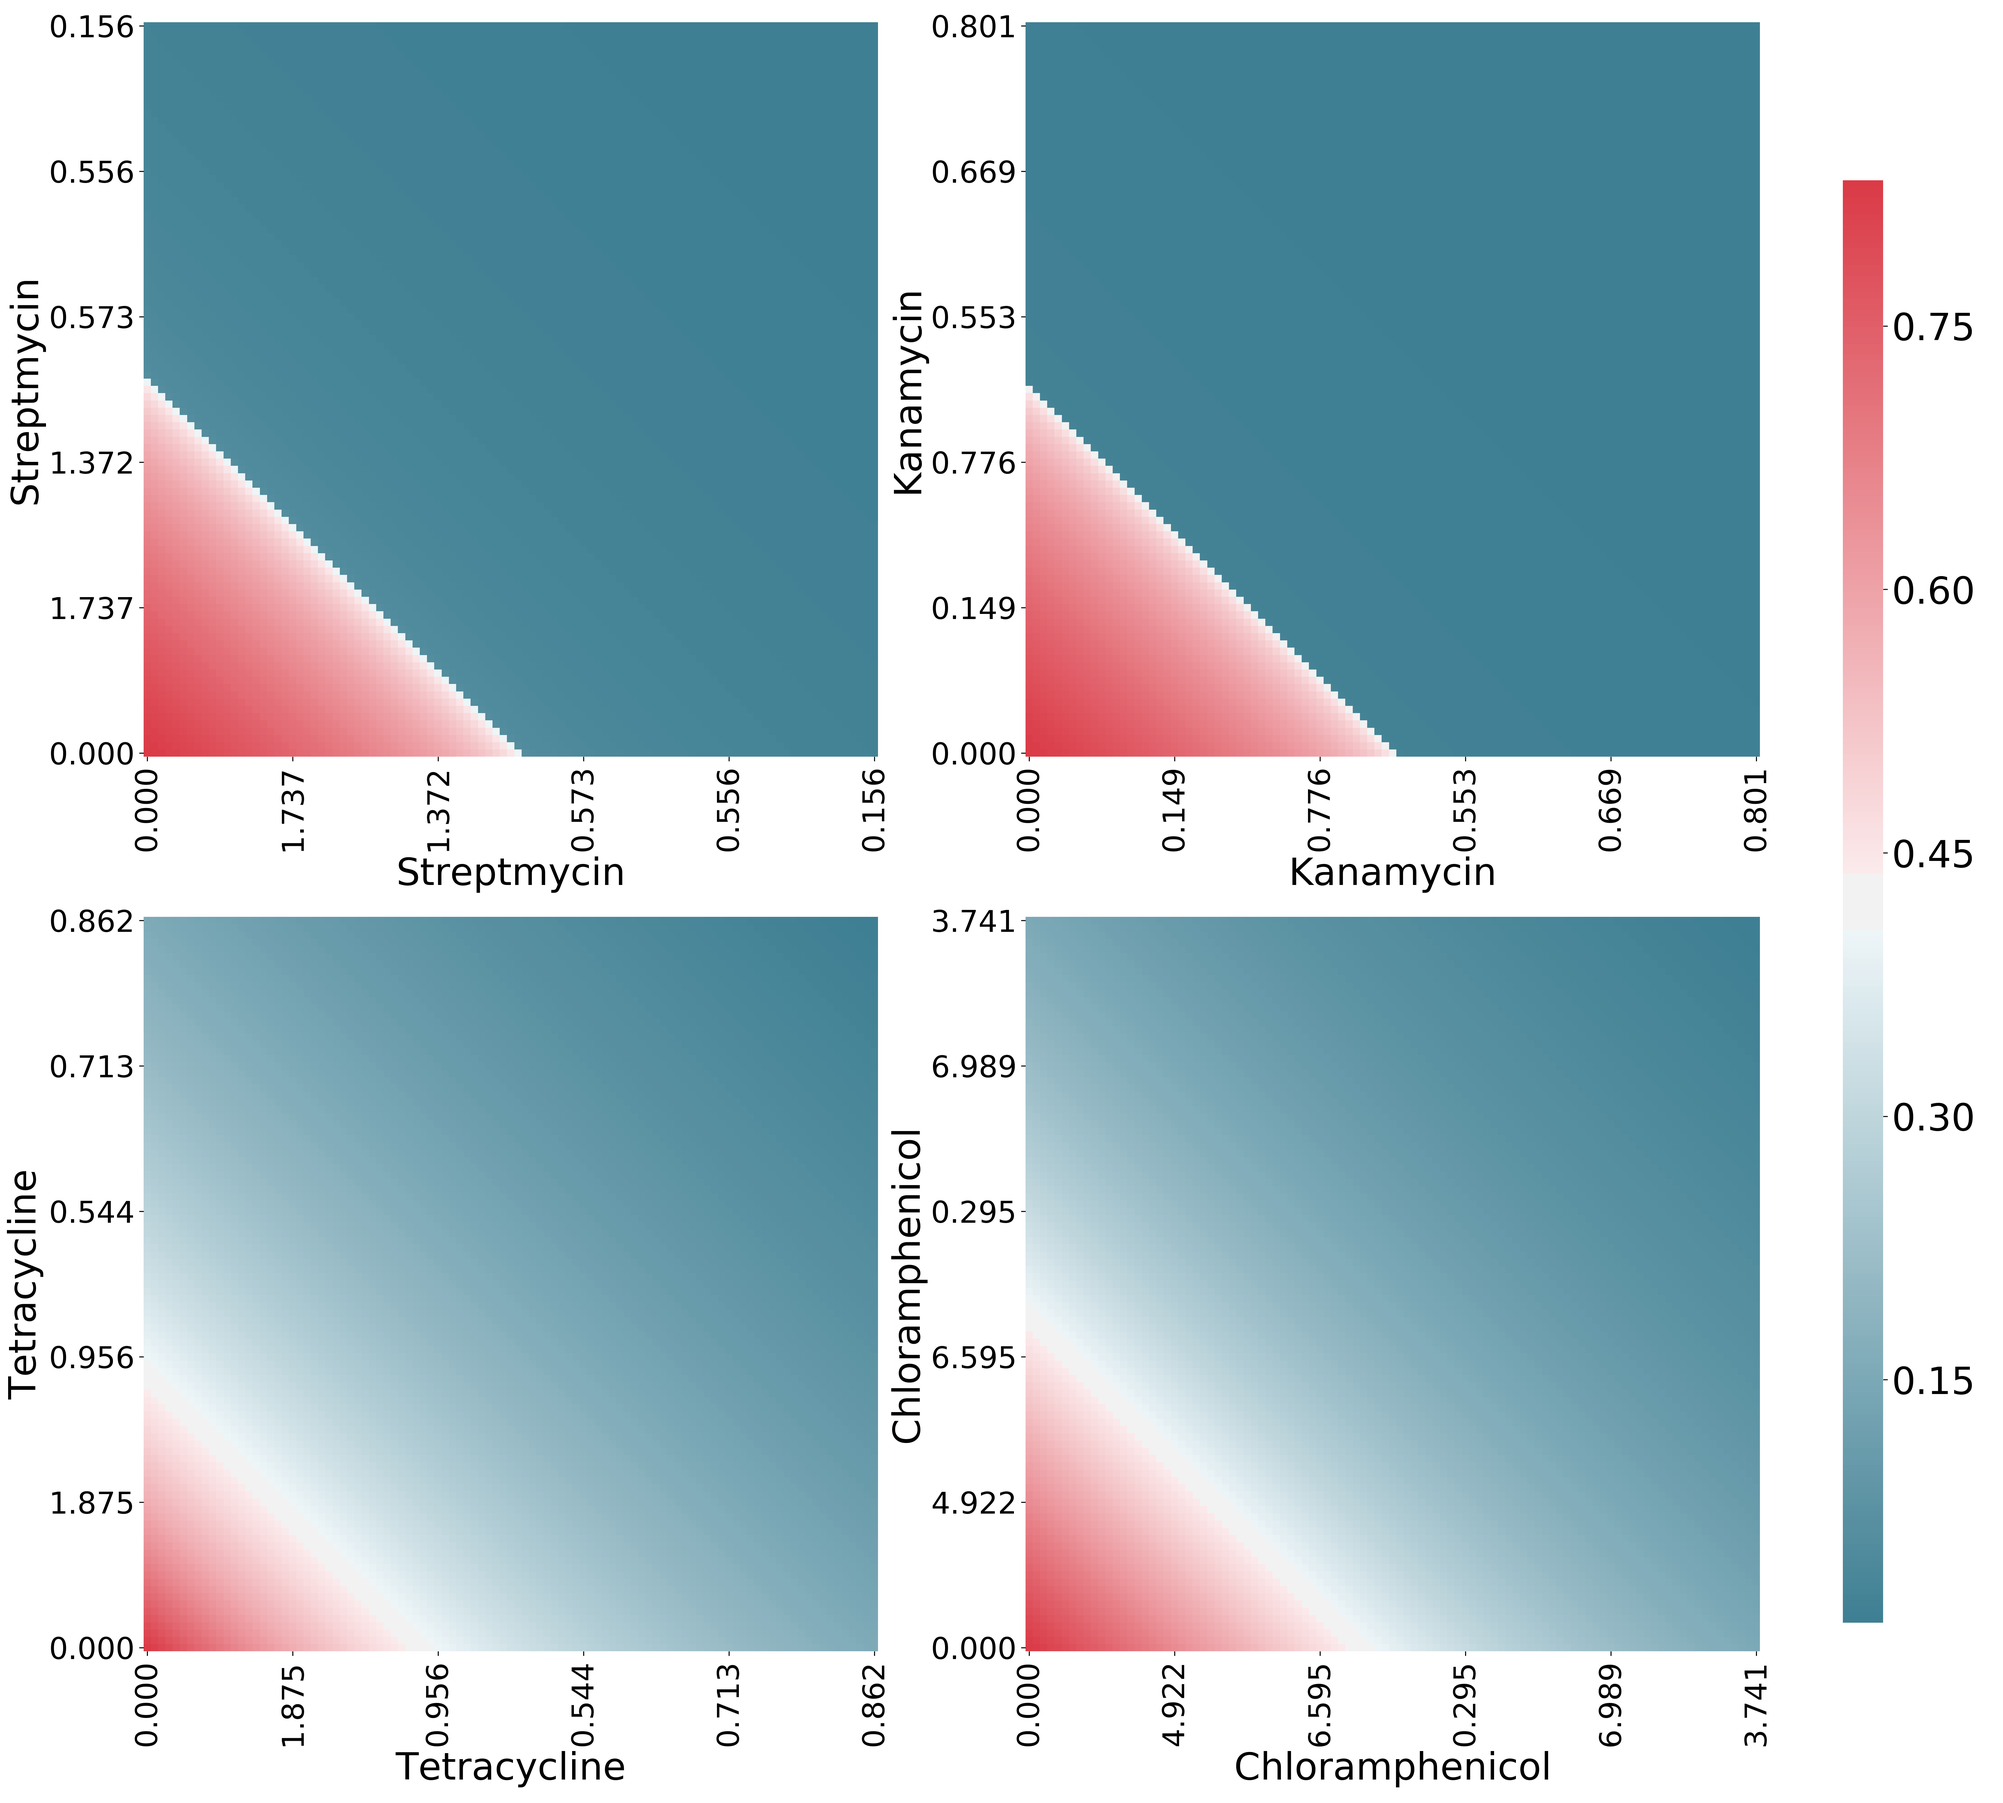
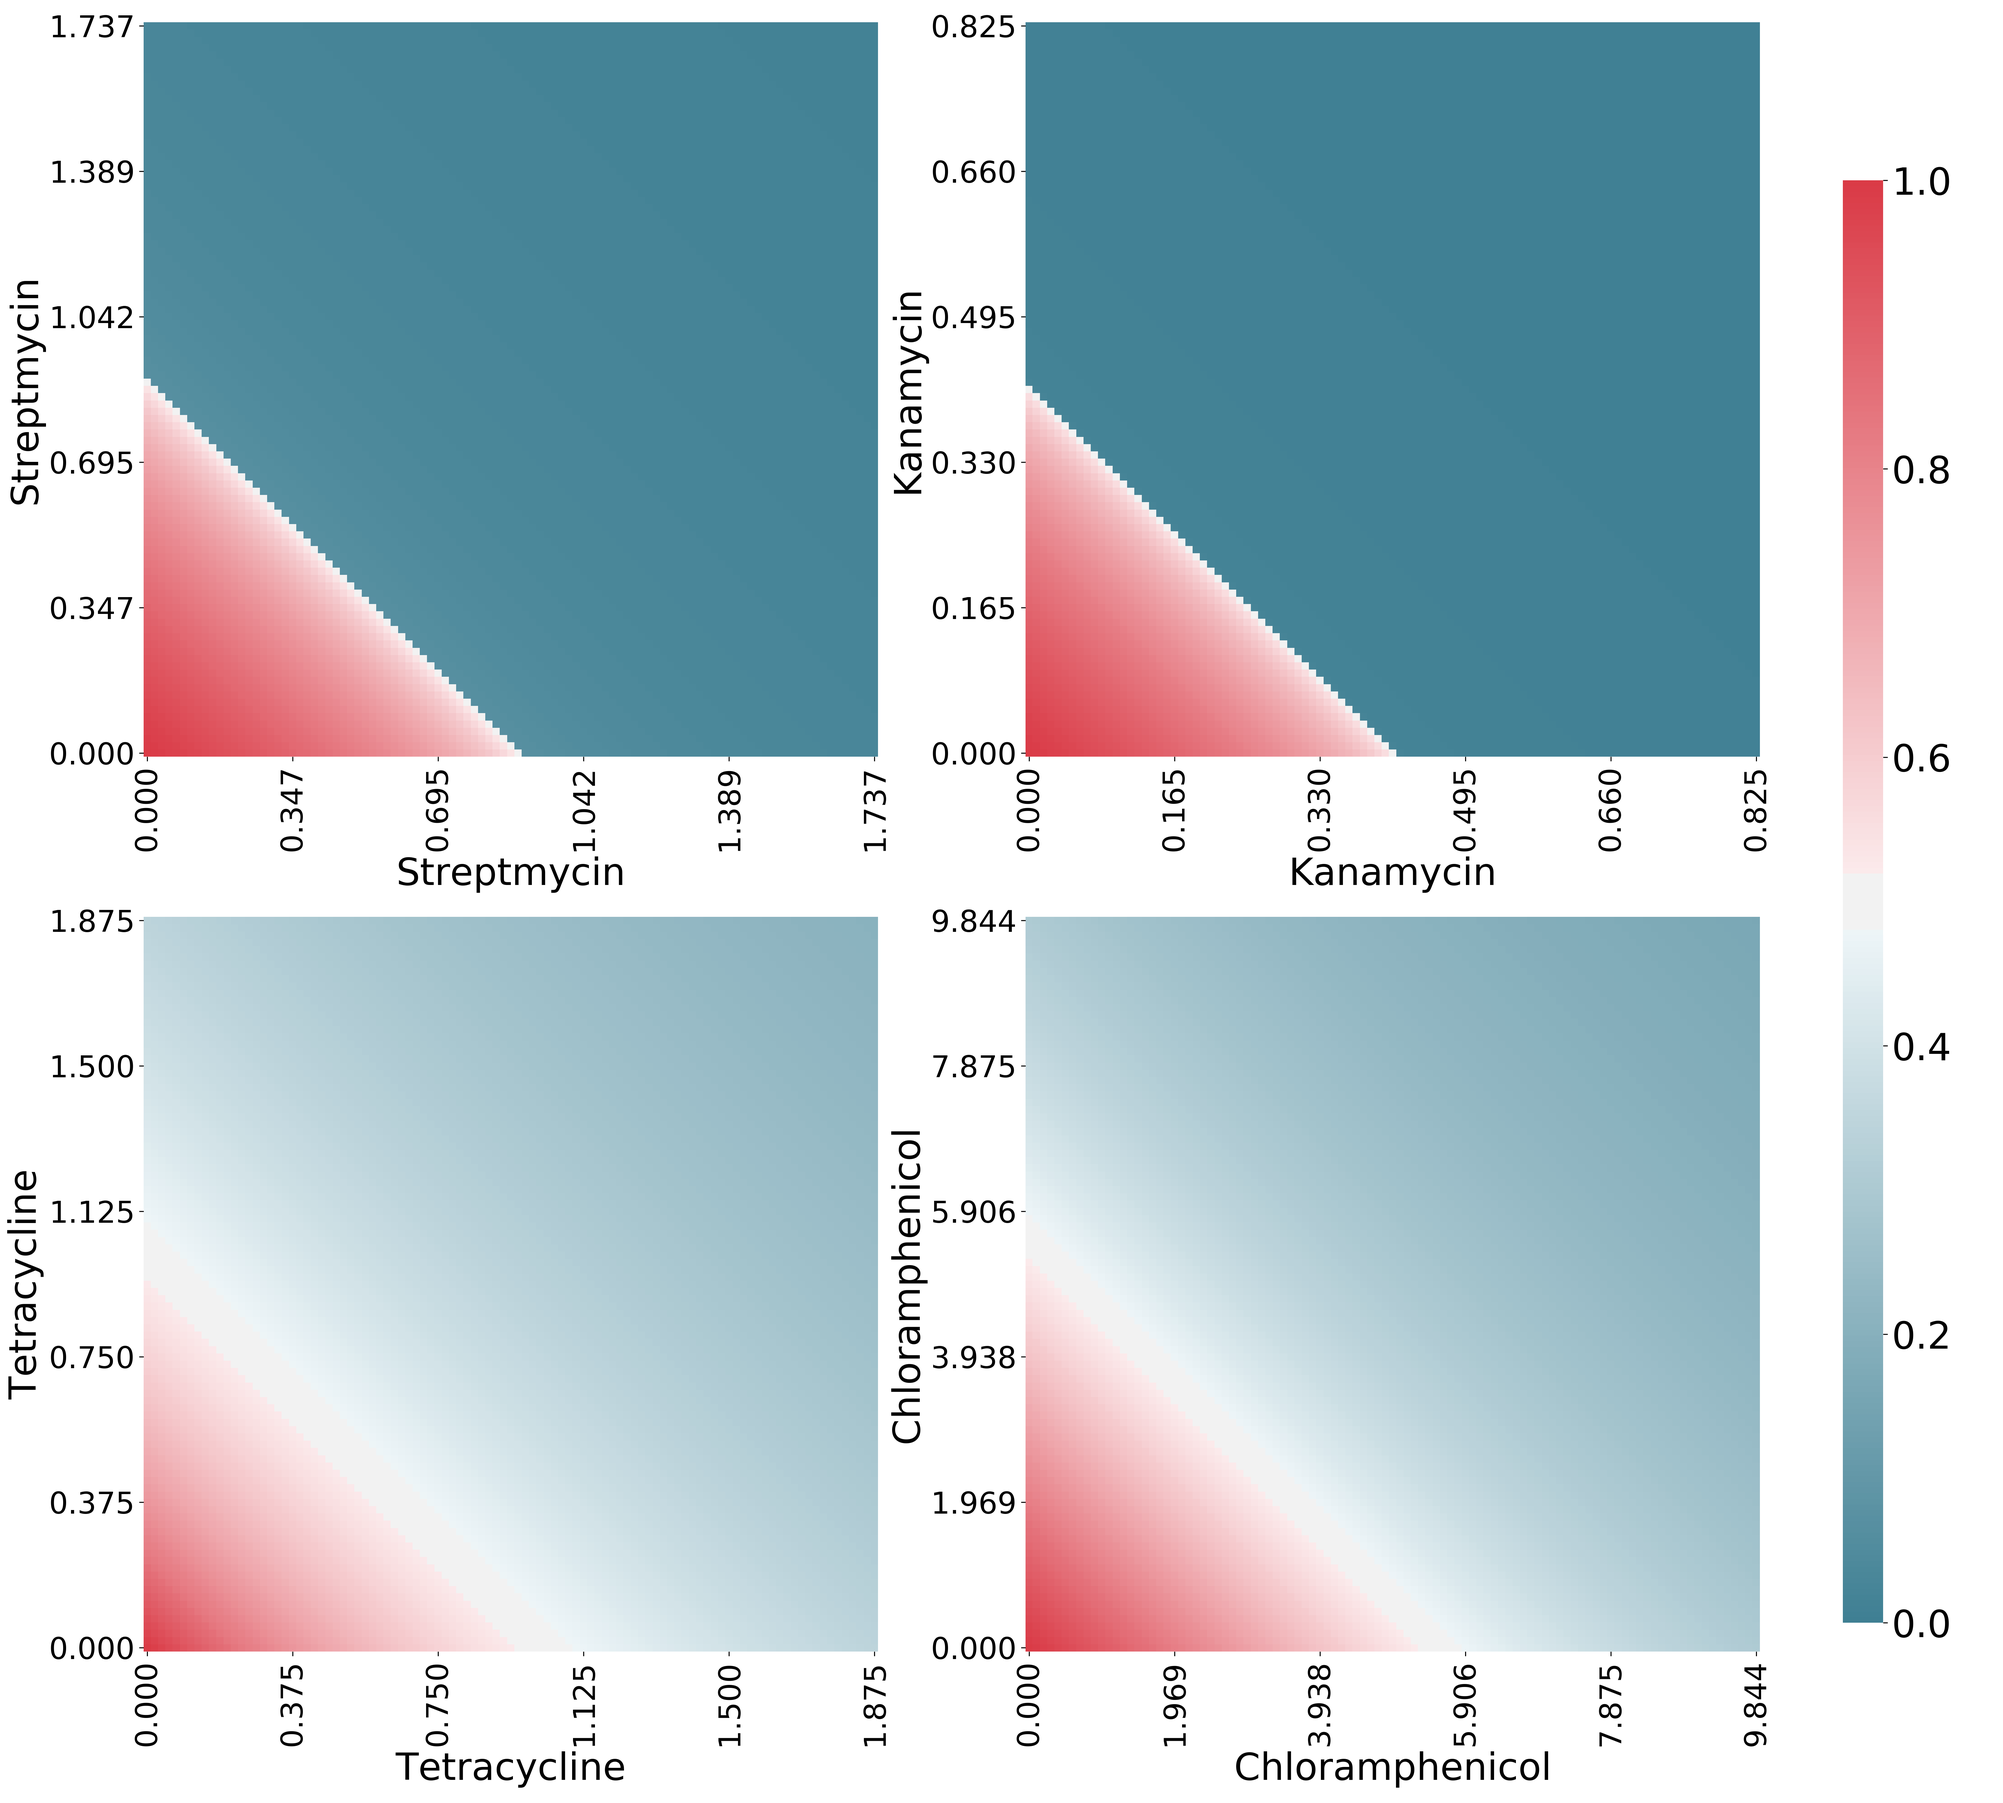
sameDrug, diffDrug, singleの結果を再出力

diff --git a/run_ribo8.py b/run_ribo8.py
@@ -1,115 +1,27 @@
 #coding: utf-8
 from modules import *
 
-# import matplotlib
-# matplotlib.use("Agg") # gui$B$N$J$$4D6-$G$N$*$^$8$J$$(B
-# import seaborn as sns
-# import pandas as pd
-# import matplotlib.pylab as plt
-# import itertools as itr
-# import numpy as np
-# 
-# def makedir(dirname):
-#     import os
-#     if not os.path.exists(dirname):
-#         os.makedirs(dirname)
-#     del(os)
-# 
-# def mergeResults(fileNameList):
-#     """
-#         $BJBNs7W;;$7$?7k2L$r#1$D$N%U%!%$%k$K$^$H$a$k4X?t(B
-#         fileNameList : $B%U%!%$%kL>$r%j%9%H$K$7$?$b$N!%(B
-#     """
-#     df = pd.DataFrame()
-#     for fileName in fileNameList:
-#         data = pd.read_csv(fileName)
-#         df = pd.concat([df, data])
-#     df = df.reset_index(drop=True)
-#     return df
-# 
-# def createSingleGraph(dataPath, savename):
-#     drugNames = ["Streptmycin", "Kanamycin", "Tetracycline", "Chloramphenicol"]
-#     plt.figure(figsize=(16, 12))
-#     for index, drugName in enumerate(drugNames):
-#         data = pd.read_csv("{}/{}.csv".format(dataPath, drugName))
-#         plt.subplot(2, 2, index + 1)
-#         plt.plot(data["dose"], data["growth"])
-#         plt.xlabel("Dose", fontsize=20)
-#         plt.ylabel("Growth Rate", fontsize=20)
-#         plt.title(drugName, fontsize=30)
-#         plt.tick_params(labelsize=14)
-#     plt.tight_layout()
-#     plt.savefig(savename, dpi=300)
-# 
-# def createHeatmap(drugNames, dataLists, subplot, saveName):
-#     """
-#         drugNames : csv$B$N%U%!%$%kL>$G;HMQ$7$F$$$kLt:^L>$N%j%9%H(B
-#         csvdir    : csv$B$,J]B8$5$l$F$$$k%G%#%l%/%H%jL>(B
-#         subplot   : $B%0%i%U$N?t$r9TNs$G(B[$B2#(B, $B=D(B]
-#     """
-#     fig = plt.figure(figsize=(subplot[0] * 100 / 9, subplot[1] * 10))
-#     cbar_ax = fig.add_axes([.92, .1, .02, .8])
-#     cmap = sns.diverging_palette(220, 10, as_cmap=True)
-#     for index, drugName in enumerate(drugNames):
-#         plt.subplot(subplot[1], subplot[0], index + 1)
-#         data = pd.read_csv(dataLists[index])
-#         heatmapData = pd.pivot_table(data = data,
-#                                      values = "growth",
-#                                      index = "dose1",
-#                                      columns = "dose2")
-#         ax = sns.heatmap(heatmapData,
-#                          cbar = index == 0,
-#                          cmap = cmap,
-#                          cbar_ax = None if index else cbar_ax,
-#                          square = True)
-# 
-#         ax.invert_yaxis() # y$B<4$N>e2<$rJQ$($k(B
-#         setTickLabel(data, ax) # $B<4$N@_Dj(B
-#         ax.set_ylabel(drugName[0], fontsize = 30) # y$B<4$N%i%Y%k(B
-#         ax.set_xlabel(drugName[1], fontsize = 30) # x$B<4$N%i%Y%k(B
-#         ax.tick_params(labelsize=24)
-# 
-#     cbar_ax.tick_params(labelsize = 30)
-#     fig.tight_layout(rect = [0, 0, .9, 1.])
-#     plt.savefig(saveName, dpi=300)
-# 
-# 
-# def setTickLabel(data, ax):
-#     dose1DoseList = list(set(data["dose1"].tolist()))[::20] # y$B<4$KI=<($7$?$$?t$N%j%9%H(B
-#     dose2DoseList = list(set(data["dose2"].tolist()))[::20] # x$B<4$KI=<($7$?$$?t$N%j%9%H(B
-# 
-#     # yticks$B$N@_Dj(B
-#     dataLenY = len(list(set(data["dose1"].tolist()))) 
-#     ax.set_yticks(list(np.linspace(0.5, dataLenY - 0.5, len(dose1DoseList))))
-#     ax.set_yticklabels(list(map(lambda x:"{:.3f}".format(x), dose1DoseList)))
-#     
-#     # xticks$B$N@_Dj(B
-#     dataLenX = len(list(set(data["dose2"].tolist()))) 
-#     ax.set_xticks(list(np.linspace(0.5, dataLenX - 0.5, len(dose2DoseList))))
-#     ax.set_xticklabels(list(map(lambda x:"{:.3f}".format(x), dose2DoseList)))
-
-
 if __name__ == "__main__":
     drugNames = ["Streptmycin", "Kanamycin", "Tetracycline", "Chloramphenicol"]
     
     # single simulation 
-    singleDataPath = "results/ribo8/csv/single"
-    imagesDirPath = "results/ribo8/images"
-    plt.figure(figsize=(20, 20))
-    for index, drugName in enumerate(drugNames):
-        plt.subplot(2, 2, index + 1)
-        df = pd.read_csv("{}/{}.csv".format(singleDataPath, drugName))
-        plt.plot(list(df["dose"]), list(df["growthRate"]))
-        plt.title(drugName, fontsize=30)
-        plt.xlabel("", fontsize=30)
-        plt.ylabel("", fontsize=30)
-    plt.savefig("{}/{}.png".format(imagesDirPath, drugName), dpi=300)
+    # singleDataPath = "results/ribo8/csv/single"
+    # imagesDirPath = "results/ribo8/images"
+    # plt.figure()
+    # for index, drugName in enumerate(drugNames):
+    #     plt.subplot(2, 2, index + 1)
+    #     df = pd.read_csv("{}/{}.csv".format(singleDataPath, drugName))
+    #     plt.plot(list(df["dose"]), list(df["growthRate"]))
+    #     plt.title(drugName, fontsize=12)
+    #     plt.xlabel("Dose", fontsize=12)
+    #     plt.ylabel("Growth Rate", fontsize=12)
+    # plt.tight_layout()
+    # plt.savefig("{}/single.png".format(imagesDirPath), dpi=300)
 
     # combinatorial simulation
     ## merge DataFiles
     # drugNameList = itr.combinations_with_replacement(drugNames, 2)
-    # csvdir = "results/ribo8/double/normal"
-
+    # csvdir = "results/ribo8/csv/double/normal"
     # for drugName in drugNameList:
     #     dirName = "{}/{}".format(csvdir, "_".join(drugName))
     #     fileNameList = ["{}/{}.csv".format(dirName, num) for num in range(101)]
@@ -118,15 +30,15 @@ if __name__ == "__main__":
 
     ## SameDrug combination
     # drugNameList = [[name, name] for name in drugNames]
-    # dataLists = ["results/ribo8/double/normal/{}_merge.csv".format("_".join(i)) for i in drugNameList]
+    # dataLists = ["results/ribo8/csv/double/normal/{}_merge.csv".format("_".join(i)) for i in drugNameList]
     # saveName = "results/ribo8/images/sameDrug.png"
-    # createHeatmap(drugNameList, dataLists, [2, 2], saveName)
+    # createHeatmap(drugNameList, dataLists, [2, 2], saveName, ["dose2", "dose1"], "growthRate")
 
     ## differentDrug combination
     # drugNameList = list(itr.combinations(drugNames, 2))
-    # dataLists = ["results/ribo8/double/normal/{}_merge.csv".format("_".join(i)) for i in drugNameList]
+    # dataLists = ["results/ribo8/csv/double/normal/{}_merge.csv".format("_".join(i)) for i in drugNameList]
     # saveName = "results/ribo8/images/diffDrug.png"
-    # createHeatmap(drugNameList, dataLists, [3, 2], saveName
+    # createHeatmap(drugNameList, dataLists, [3, 2], saveName, ["dose2", "dose1"], "growthRate")
 
     # combinatorial simulation(virtual drug)
     ## merge DataFiles
@@ -141,10 +53,10 @@ if __name__ == "__main__":
     #         df.to_csv("{}/{}_merge.csv".format(csvdir, "_".join(["{}{}".format(drugName[i], target[i]) for i in range(len(drugName))])), index=False)
 
     ## create Image
-    drugNameList = [["Streptmycin", "Streptmycin"], ["Streptmycin", "Chloramphenicol"], ["Chloramphenicol", "Chloramphenicol"]]
-    targetList = [["A", "A"], ["A", "B"], ["A", "C"]]
-    nameList = [["{}{}".format(drugName[0], target[0]), "{}{}".format(drugName[1], target[1])] for drugName in drugNameList for target in targetList]
-    dataLists = ["results/ribo8/csv/double/virtual/{}_merge.csv".format("_".join(name)) for name in nameList]
-    saveName = "results/ribo8/images/virtualDrug.png"
-    createHeatmap(nameList, dataLists, [3, 3], saveName, xy=["dose2", "dose1"], simType="growth")
+    # drugNameList = [["Streptmycin", "Streptmycin"], ["Streptmycin", "Chloramphenicol"], ["Chloramphenicol", "Chloramphenicol"]]
+    # targetList = [["A", "A"], ["A", "B"], ["A", "C"]]
+    # nameList = [["{}{}".format(drugName[0], target[0]), "{}{}".format(drugName[1], target[1])] for target in targetList for drugName in drugNameList]
+    # dataLists = ["results/ribo8/csv/double/virtual/{}_merge.csv".format("_".join(name)) for name in nameList]
+    # saveName = "results/ribo8/images/virtualDrug.png"
+    # createHeatmap(nameList, dataLists, [3, 3], saveName, xy=["dose2", "dose1"], simType="growth")
 
